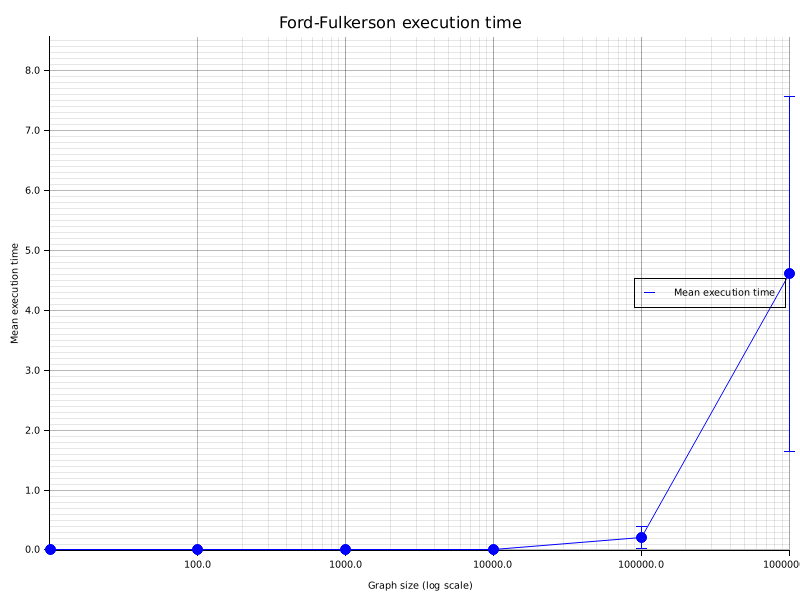
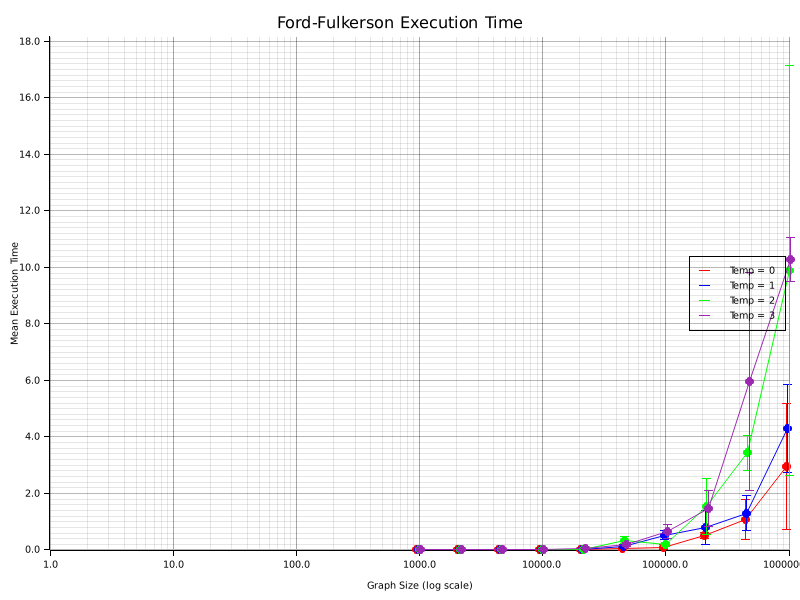
wip

diff --git a/src/main.rs b/src/main.rs
@@ -1,6 +1,6 @@
-use plotters::prelude::*;
+use plotters::{prelude::*, style::{colors, full_palette::{ORANGE, PURPLE}}};
 use rand::{prelude::*, random_range};
-use std::time::{Duration, Instant};
+use std::{f64, time::{Duration, Instant}, vec};
 use petgraph::prelude::DiGraphMap;
 use statrs::statistics::Statistics;
 
@@ -21,41 +21,46 @@ macro_rules! measure_time {
 
 fn main() {
     //let sizes: Vec<i32> = vec![10, 100, 1000, 10_000, 100_000, 1_000_000];
-    let sizes = logspace(100, 1_000_000, 10);
+    let sizes = logspace(1_000, 1_000_000, 10);
+    let temperatures = vec![1.0, 2.0, 3.0, 5.0];
     let max_duration = Duration::from_secs(300);
-    let max_iterations = 1_000;
+    let max_iterations = 1_00;
 
-    let mut results = Vec::new();
+    let mut results_per_temp = vec![];
+    
+    for &temp in &temperatures {
+        let mut results = Vec::new();
 
-    for &size in &sizes {
-        let mut times = Vec::new();
-        let start_experiment = Instant::now();
-        let mut iteration = 0;
+        for &size in &sizes {
+            let mut times = Vec::new();
+            let start_experiment = Instant::now();
+            let mut iteration = 0;
 
-        while start_experiment.elapsed() < max_duration && iteration < max_iterations {
-            let mut graph = generate_graph(size, 1.0, 30);
-            let mut nodes = graph.nodes();
-            let source = nodes.next().unwrap();
-            let sink = nodes.last().unwrap();
+            while start_experiment.elapsed() < max_duration && iteration < max_iterations {
+                let mut graph = generate_graph(size, temp, 30);
+                let mut nodes = graph.nodes();
+                let source = nodes.next().unwrap();
+                let sink = nodes.last().unwrap();
 
-            let elapsed = measure_time!(ford_fulkerson(&mut graph, source, sink));
+                let elapsed = measure_time!(ford_fulkerson(&mut graph, source, sink));
+                times.push(elapsed);
+                iteration += 1;
+            }
 
-            times.push(elapsed);
-
-            iteration += 1;
+            if !times.is_empty() {
+                let mean = times.clone().mean();
+                let std_dev = times.std_dev();
+                results.push((size as f64, mean, std_dev));
+                println!("Temp: {}, Size: {}, Mean Time: {:.4} s, Std Dev: {:.4}", temp, size, mean, std_dev);
+            } else {
+                print!("Size: {}, not enoudh time for measurement", size);
+            }
         }
 
-        if !times.is_empty() {
-            let mean = times.clone().mean();
-            let std_dev = times.std_dev();
-            results.push((size as f64, mean, std_dev));
-            println!("Size: {}, Mean Time: {:.4} s, Std Dev: {:.4}", size, mean, std_dev);
-        } else {
-            print!("Size: {}, not enoudh time for measurement", size);
-        }
+        results_per_temp.push((temp, results));
     }
 
-    plot_results(&results);
+    plot_results(&results_per_temp);
 }
 
 
@@ -85,53 +90,109 @@ fn generate_graph(number_of_nodes: i32, temperature: f64, weight: i32) -> DiGrap
     graph
 }
 
-fn plot_results(data: &Vec<(f64, f64, f64)>) {
+//fn plot_results(data: &Vec<(f64, Vec<(f64, f64, f64)>)>) {
+//    let root = BitMapBackend::new("results.png", (800, 600)).into_drawing_area();
+//    root.fill(&WHITE).unwrap();
+//
+//    let max_x = data.iter().flat_map(|(_, d)| d).map(|(x, _, _)| *x).fold(f64::NEG_INFINITY, f64::max);
+//    let max_y = data.iter().flat_map(|(_, d)| d).map(|(_, mean, err)| mean+err).fold(f64::NEG_INFINITY, f64::max);
+//
+//    let colors = [RED, BLUE, GREEN, PURPLE, YELLOW, ORANGE, MAGENTA];
+//
+//    let mut chart = ChartBuilder::on(&root)
+//        .caption("Ford-Fulkerson execution time", ("sans-serif", 20))
+//        .margin(10)
+//        .x_label_area_size(40)
+//        .y_label_area_size(40)
+//        .build_cartesian_2d(
+//            (0.0..max_x+1.0).log_scale(),
+//            0.0..max_y+1.0,
+//        )
+//        .unwrap();
+//
+//    chart
+//        .configure_mesh()
+//        .x_desc("Graph size (log scale)")
+//        .y_desc("Mean execution time [s]")
+//        .draw()
+//        .unwrap();
+//
+//
+//    for (i, (temp, d)) in data.iter().enumerate() {
+//        let color = colors[i % colors.len()];
+//        let points: Vec<(f64,f64)> = d.iter().map(|&(x,y,_)| (x,y)).collect();
+//
+//        chart.draw_series(LineSeries::new(points, color))
+//            .unwrap()
+//            .label(format!("Temp = {}", temp))
+//            .legend(move |(x,y)| PathElement::new(vec![(x,y), (x+10, y)], color));
+//
+//        chart
+//            .draw_series(d.iter().map(|&(x,y,err)| {
+//                ErrorBar::new_vertical(x, y-err, y, y+err, color.filled(), 10)
+//            }))
+//        .unwrap();
+//    }
+//
+//    chart
+//        .configure_series_labels()
+//        .border_style(BLACK)
+//        .draw()
+//        .unwrap();
+//
+//    root.present().unwrap();
+//}
+
+fn plot_results(data: &Vec<(f64, Vec<(f64, f64, f64)>)>) {
     let root = BitMapBackend::new("results.png", (800, 600)).into_drawing_area();
     root.fill(&WHITE).unwrap();
 
-    //let min_x = data.first().unwrap().0;
-    let max_x = data.last().unwrap().0;
-    let max_y = data.iter().map(|(_, mean, err)| mean+err).fold(f64::NEG_INFINITY, f64::max);
-    //let min_y = data.iter().map(|(_, mean, err)| mean-err).fold(f64::INFINITY, f64::min);
+    //let max_x = data.last().unwrap().0;
+    //let max_y = data.iter()
+    //    .flat_map(|(_, values)| values.iter().map(|(_, mean, err)| mean + err))
+    //    .fold(f64::NEG_INFINITY, f64::max);
+    let max_x = data.iter().flat_map(|(_, d)| d).map(|(x, _, _)| *x).fold(f64::NEG_INFINITY, f64::max);
+    let max_y = data.iter().flat_map(|(_, d)| d).map(|(_, mean, err)| mean+err).fold(f64::NEG_INFINITY, f64::max);
 
     let mut chart = ChartBuilder::on(&root)
-        .caption("Ford-Fulkerson execution time", ("sans-serif", 20))
+        .caption("Ford-Fulkerson Execution Time", ("sans-serif", 20))
         .margin(10)
         .x_label_area_size(40)
         .y_label_area_size(40)
-        .build_cartesian_2d(
-            (0.0..max_x+1.0).log_scale(),
-            0.0..max_y+1.0,
-        )
+        .build_cartesian_2d((1.0..max_x + 1.0).log_scale(), 0.0..max_y + 1.0)
         .unwrap();
 
-    chart
-        .configure_mesh()
-        .x_desc("Graph size (log scale)")
-        .y_desc("Mean execution time")
+    chart.configure_mesh()
+        .x_desc("Graph Size (log scale)")
+        .y_desc("Mean Execution Time")
         .draw()
         .unwrap();
 
-    let points: Vec<(f64,f64)> = data.iter().map(|&(x,y,_)| (x,y)).collect();
+    let colors = &[RED, BLUE, GREEN, PURPLE, ORANGE, YELLOW];
+    let offsets = &[-0.05, -0.025, 0.0, 0.025, 0.05];
+    for (idx, (temp, series)) in data.iter().enumerate() {
+        let color = colors[idx % colors.len()];
+        let offset = offsets[idx % offsets.len()];
 
-    chart.draw_series(LineSeries::new(points, BLUE))
-        .unwrap()
-        .label("Mean execution time")
-        .legend(|(x,y)| PathElement::new(vec![(x,y), (x+10, y)], BLUE));
+        let points: Vec<(f64, f64)> = series.iter()
+            .map(|&(x, y, _)| (x * (1.0 + offset), y))
+            .collect();
 
-    chart
-        .draw_series(data.iter().map(|&(x,y,err)| {
-            ErrorBar::new_vertical(x, y-err, y, y+err, BLUE.filled(), 10)
-        }))
-        .unwrap();
-    
-    chart
-        .configure_series_labels()
+        chart.draw_series(LineSeries::new(points.clone(), color))
+            .unwrap()
+            .label(format!("Temp = {}", temp))
+            .legend(move |(x, y)| PathElement::new(vec![(x, y), (x + 10, y)], color));
+
+        chart.draw_series(series.iter().map(|&(x, y, err)| {
+            let x_offset = x * (1.0 + offset);
+            ErrorBar::new_vertical(x_offset, y - err, y, y + err, color.filled(), 8)
+        })).unwrap();
+    }
+
+    chart.configure_series_labels()
         .border_style(BLACK)
         .draw()
         .unwrap();
 
     root.present().unwrap();
 }
-
-
